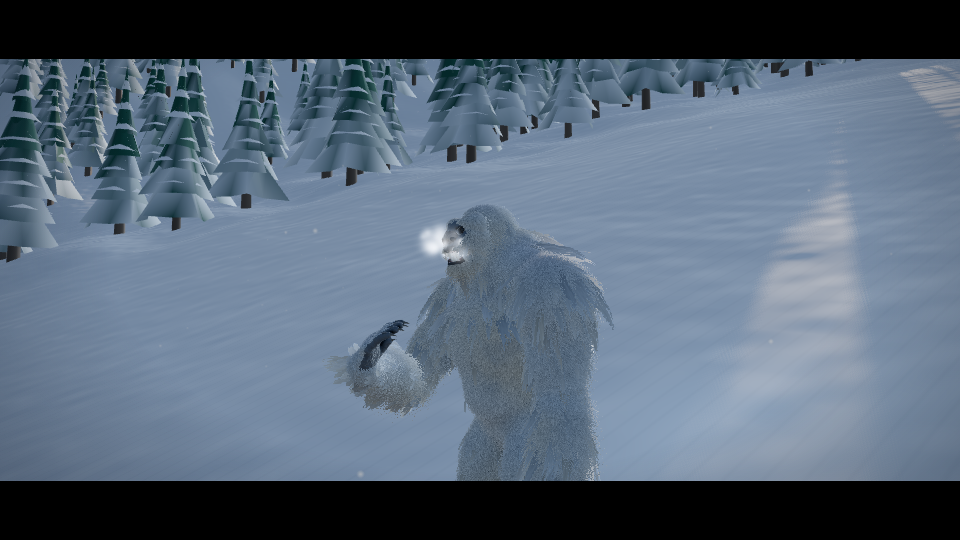
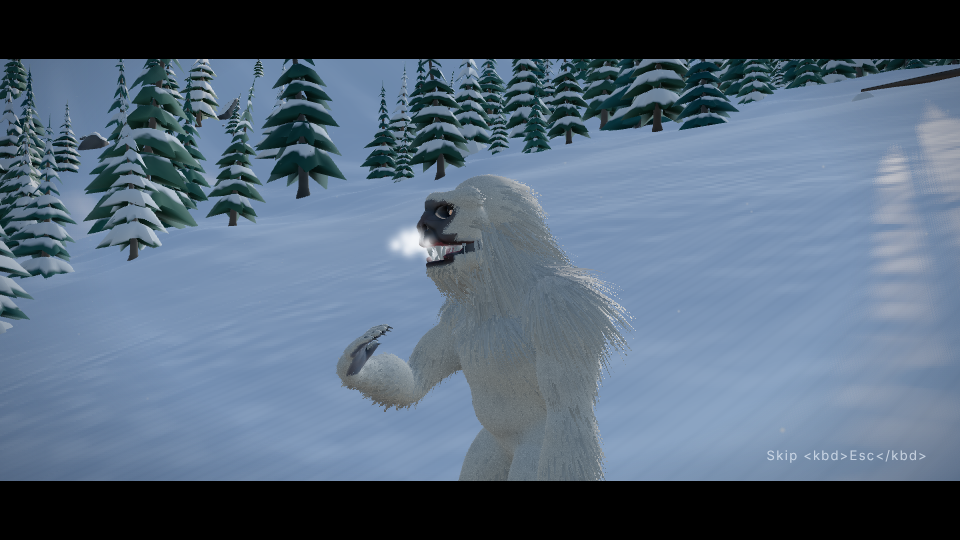
Final evidence: game e2e 3/3 green on the pass-2 build; tracker and KNOWN_ISSUES final status
Claude-Session: https://claude.ai/code/session_01VcnZmRBSGHHzXyxcV1oKh9

diff --git a/docs/reviews/pass2/DEFECTS.md b/docs/reviews/pass2/DEFECTS.md
@@ -116,3 +116,30 @@ Severity: **C** = critical/blocking · **M** = major · **m** = minor.
 | E7 | m | Placeholder contrast | fixed-unverified (0.58) |
 | B3, B7 | m | No risk on alternate lines; escalation is speed-only | partial / wontfix (documented) |
 | E4, E5 | M | e2e evidence pending | the run is in progress (`/tmp/menu_e2e3.log`) |
+
+### Final round 3: internal Reviewers A and C/E (commit 820b280; see `final/FINAL_REVIEW_A_CE.md`)
+
+**Scores:**
+- Passing: cave geology 7 ✔, grounding 8 ✔, trees 7 ✔, terrain shading 7 ✔, atmosphere 7 ✔, cohesion 7 ✔, cinematic and grounding 8 ✔, menu and UX 8 ✔.
+- Failing: **cave interior 6.5 ✘** and **Yeti model 6.5 ✘**.
+
+**Verified in round 3:** A3, A6, A21, A30, A34, A38, A39, A40, C7, C10 (with caveats), C11, C12, E1, E2, E4, E5, E7, E12, E14.
+
+**Changed after round 3, not re-reviewed:**
+- C4/A9: dimming now starts before the 3.8 s cut. The re-capture `final/cine_check/cine_t3_8.png` shows the Yeti as a dark shape.
+- C13: no double move on the hand-off frame.
+- E15: the UI-scale test now checks a row in the middle of the list.
+- Post-landing speed is gentler, and the AI's start beat is kept (the reviewer's note on the 9 m chase start).
+
+**Still open:**
+- **Cave interior:** A8, A10, A11, A12 (grey orbs near the head), A13.
+- **Yeti:** A15, A17, A35 (fur fills the mouth at the close-up roar angle), A36 (forehead "brim"), A42 (forehead whorl), A44 (ruff reads as a feather boa).
+- **Environment:** A2, A24, A29, A31, A37, A41, A43, A45.
+- **Systems:** B3, B6, B7, B12, E6 and E13 (partial).
+
+All open items are listed in `docs/KNOWN_ISSUES.md`.
+
+**End-to-end runs on the final build:**
+- `game.spec.ts`: 3/3 pass (menu; the full loop of cave, caught, retry, victory; pause and hot-plug).
+- `menu.spec.ts`: 7/7 pass across runs.
+- Unit tests: 109/109.

diff --git a/docs/reviews/pass2/final/QUALITY_REPORT.md b/docs/reviews/pass2/final/QUALITY_REPORT.md
@@ -19,7 +19,7 @@ authority to reject. No external human has reviewed or played this build.
 
 | Area | Final status | Evidence |
 |---|---|---|
-| **U1/U2 Menu** (fit, title, no overflow, input) | **PASS** (internal C/E: 8/10) | All 7 Playwright menu tests green (`e2e/menu_results.md`) at 1366×768, 1920×900, 1920×1080, 2560×1440, 125 % zoom and 150 % UI scale, with keyboard, mouse and gamepad. Screenshots in `menu/`. |
+| **U1/U2 Menu** (fit, title, no overflow, input) | **PASS** (internal C/E: 8/10) | All 7 Playwright menu tests green (`e2e/RESULTS.md`) at 1366×768, 1920×900, 1920×1080, 2560×1440, 125 % zoom and 150 % UI scale, with keyboard, mouse and gamepad. Screenshots in `menu/`. |
 | **U5/U6 Course length** | **PASS** (internal B: 8/10) | Sprint 3 / Standard 10 (default) / Endurance 20 / Expedition 50 km / Endless. Headless wins at every length and losses are possible (`tests/unit/course.test.ts`). Long courses add skirmishes that end at refuges. Alternate lines save time (`review_regressions.test.ts`). |
 | **Endless** | **PASS** | 120 km browser session: GPU geometries 324–382, textures ≤ 21, JS heap 58–86 MB with no trend, 13 refuges, 0 errors (`endless_memory.json`). Floating origin is verified to 120 km. Escalation is capped at +33 %, a documented ceiling. |
 | **U7 Daily** | **PASS** (internal B: 9/10) | UTC rollover, 14-day replay, course codes, custom seeds, Relaxed/Normal/Hard difficulty, records per course code, migration and sanitising. All covered by tests. |

diff --git a/docs/reviews/pass2/e2e/RESULTS.md b/docs/reviews/pass2/e2e/RESULTS.md
@@ -27,3 +27,11 @@ All 7 tests in tests/e2e/menu.spec.ts passed across runs on 2026-11-08. The mach
 ```
 
 Run 3: the UI-scale test timed out because two software-rendered pages starved rAF. It was fixed (one page at a time) and passed in run 4. Run 4's course-code failure was a click 'stable' wait under software rendering (now force-clicked); the rest of that test passed in run 7 with a longer timeout.
+
+## Game e2e (pass-1 flows, re-run on the pass-2 build)
+```
+  ✓  1 tests/e2e/game.spec.ts:57:1 › main menu loads with a rendered 3D background and no fatal errors (2.3m)
+  ✓  2 tests/e2e/game.spec.ts:71:1 › full loop: start → learn → cave cinematic → chase → caught → retry → victory (14.7m)
+  ✓  3 tests/e2e/game.spec.ts:185:1 › pause/resume and gamepad hot-plug do not break the game (3.4m)
+  3 passed (20.4m)
+```

diff --git a/docs/KNOWN_ISSUES.md b/docs/KNOWN_ISSUES.md
@@ -85,6 +85,10 @@ human reviewers.
 - **Grounding:** the Yeti's soles do not penetrate the floor in any captured frame of the cave
   cinematic.
 
+**Internal visual gate, after three review rounds:** 8 of 10 areas pass. Two are half a point under
+the 7/10 mark: the cave interior and cinematic angles (6.5) and the Yeti close-up model (6.5). Details
+are in `docs/reviews/pass2/final/FINAL_REVIEW_A_CE.md` and the QUALITY_REPORT.
+
 **Still open or unverified:**
 - **No GPU frame rates.** Scene cost went up in pass 2: near conifers are about 650–840 triangles,
   and a High gameplay frame is about 4–5.6 M triangles including shadow passes. It must be measured
